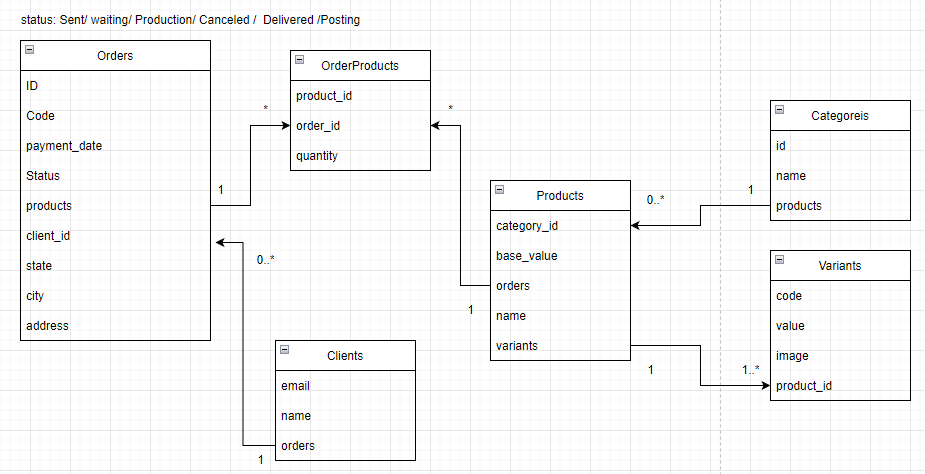
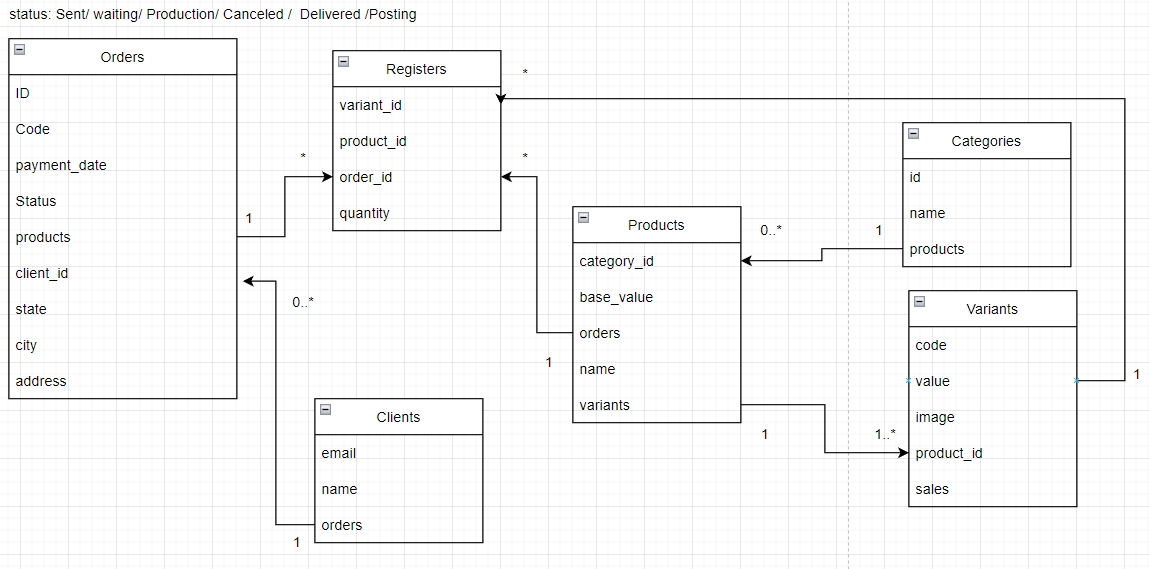
wip(register): Register products on orders - Need dockerize first 'cause my wsl crashed x.x

diff --git a/spec/controllers/v1/orders_controller_spec.rb b/spec/controllers/v1/orders_controller_spec.rb
@@ -72,16 +72,37 @@ describe V1::OrdersController, type: :controller do
 
   describe 'POST /v1/orders' do
     context 'When put invalid attributes' do
+      let(:product) { create(:product, :with_variants, variant_count: 2) }
+      let(:variant) { create(:variant, id: 3) }
+
       before do
         post :create, params: attributes_for(:order,
                                              code: '123456789098',
-                                             status: 'Raining Blood')
+                                             status: 'Raining Blood',
+                                             registers_attributes: [
+                                               {
+                                                 product_id: 1,
+                                                 variant_id: 3,
+                                                 quantity: 2
+                                               },
+                                               {
+                                                 product_id: 1,
+                                                 variant_id: 3,
+                                                 quantity: 2
+                                               }
+                                             ])
       end
 
       include_examples 'unprocess_entity response'
 
       it 'Then return error type validation' do
         expect(json_response[:errors][:status]).to eq(['Invalid status'])
+        expect(json_response[:errors][:registers]).to eq([
+                                                           'Variant 3 doesnt belongs that product 1',
+                                                           'Variant 100 doesnt belongs that product 600'
+                                                         ])
+        expect(json_response[:errors][:'registers.product']).to eq(['must exist'])
+        expect(json_response[:errors][:'registers.variant']).to eq(['must exist'])
       end
     end
 
@@ -104,14 +125,32 @@ describe V1::OrdersController, type: :controller do
         expect(json_response[:errors][:state]).to eq(["can't be blank"])
         expect(json_response[:errors][:address]).to eq(["can't be blank"])
         expect(json_response[:errors][:city]).to eq(["can't be blank"])
+        expect(json_response[:errors][:registers]).to eq(["can't be blank"])
         expect(json_response[:errors][:net_value]).to eq(['is not a number', "can't be blank"])
       end
     end
 
     context 'When put valid data' do
       let(:client) { create(:client) }
+      let(:product) { create(:product, :with_variants, variant_count: 2) }
+
       before do
-        post :create, params: attributes_for(:order, client_id: client.id)
+        post :create, params: attributes_for(
+          :order,
+          client_id: client.id,
+          registers_attributes: [
+            {
+              product_id: 1,
+              variant_id: 1,
+              quantity: 2
+            },
+            {
+              product_id: 1,
+              variant_id: 2,
+              quantity: 2
+            }
+          ]
+        )
       end
 
       include_examples 'ok response'

diff --git a/db/schema.rb b/db/schema.rb
@@ -10,7 +10,7 @@
 #
 # It's strongly recommended that you check this file into your version control system.
 
-ActiveRecord::Schema[7.0].define(version: 2022_06_13_151527) do
+ActiveRecord::Schema[7.0].define(version: 2022_06_14_181838) do
   # These are extensions that must be enabled in order to support this database
   enable_extension "plpgsql"
 
@@ -52,6 +52,18 @@ ActiveRecord::Schema[7.0].define(version: 2022_06_13_151527) do
     t.index ["category_id"], name: "index_products_on_category_id"
   end
 
+  create_table "registers", force: :cascade do |t|
+    t.bigint "order_id", null: false
+    t.bigint "product_id", null: false
+    t.bigint "variant_id", null: false
+    t.integer "quantity"
+    t.datetime "created_at", null: false
+    t.datetime "updated_at", null: false
+    t.index ["order_id"], name: "index_registers_on_order_id"
+    t.index ["product_id"], name: "index_registers_on_product_id"
+    t.index ["variant_id"], name: "index_registers_on_variant_id"
+  end
+
   create_table "variants", force: :cascade do |t|
     t.string "code", null: false
     t.decimal "value", precision: 8, scale: 2, null: false
@@ -59,10 +71,14 @@ ActiveRecord::Schema[7.0].define(version: 2022_06_13_151527) do
     t.bigint "product_id", null: false
     t.datetime "created_at", null: false
     t.datetime "updated_at", null: false
+    t.integer "sales", default: 0
     t.index ["product_id"], name: "index_variants_on_product_id"
   end
 
   add_foreign_key "orders", "clients"
   add_foreign_key "products", "categories"
+  add_foreign_key "registers", "orders"
+  add_foreign_key "registers", "products"
+  add_foreign_key "registers", "variants"
   add_foreign_key "variants", "products"
 end

diff --git a/app/models/order.rb b/app/models/order.rb
@@ -2,12 +2,39 @@ class Order < ApplicationRecord
   STATUS = %w[SENT WAITING PRODUCTION CANCELED POSTING].freeze
   belongs_to :client
 
+  has_many :registers
+  has_many :products, through: :registers
+  accepts_nested_attributes_for :registers
+
   validates :status,
             inclusion: { in: STATUS, message: 'Invalid status' },
             presence: true
   validates :address, :city, :state, presence: true
   validates :code, presence: true, uniqueness: true
   validates :net_value, numericality: true, presence: true
+  after_commit :update_sales_variant, on: :create
+  validate :products_valid?
 
-  # TODO custom validation code on: :update
+  private
+
+  def update_sales_variant
+    registers.each do |register|
+      sales = Register.where(variant_id: register.variant_id).sum(&:quantity)
+      register.variant.update({ sales: sales })
+    end
+  end
+
+  def products_valid?
+    # errors.add(:regsiter, "can't be blank") if registers.empty? # should, but idk make on factory assoc
+    return if registers.empty?
+
+    registers.each do |register|
+      next unless Variant.find_by_product_id_and_id(register.product_id, register.variant_id).nil?
+
+      errors.add(
+        :registers,
+        "Variant #{register.variant_id} doesnt belongs that product #{register.product_id}"
+      )
+    end
+  end
 end

diff --git a/app/controllers/v1/orders_controller.rb b/app/controllers/v1/orders_controller.rb
@@ -31,8 +31,13 @@ module V1
     private
 
     def permitted_params
-      # TODO products: []
-      params.permit(:status, :address, :city, :state, :payment_date, :code, :client_id, :net_value)
+      params.permit(
+        :status, :address,
+        :city, :state,
+        :payment_date, :code,
+        :client_id, :net_value,
+        registers_attributes: %i[quantity product_id variant_id]
+      )
     end
 
     def update_permitted_params

diff --git a/spec/factories/order_factory.rb b/spec/factories/order_factory.rb
@@ -10,5 +10,17 @@ FactoryBot.define do
     city { Faker::Address.city }
     net_value { Faker::Number.decimal(l_digits: 2, r_digits: 2) }
     client factory: :client
+
+    trait :with_registers do
+      transient do
+        register_count { 1 }
+      end
+
+      after(:create) do |product, evaluator|
+        register_count.times do
+          create(:register, order: order)
+        end
+      end
+    end
   end
 end

diff --git a/db/migrate/20220614162550_create_register.rb b/db/migrate/20220614162550_create_register.rb
@@ -1,0 +1,16 @@
+class CreateRegister < ActiveRecord::Migration[7.0]
+  def up
+    create_table :registers do |t|
+      t.references :order, foreign_key: true, null: false
+      t.references :product, foreign_key: true, null: false
+      t.references :variant, foreign_key: true, null: false
+      t.integer :quantity
+
+      t.timestamps
+    end
+  end
+
+  def down
+    drop_table :registers
+  end
+end

diff --git a/app/models/product.rb b/app/models/product.rb
@@ -3,6 +3,9 @@ class Product < ApplicationRecord
   has_many :variants, dependent: :destroy, inverse_of: :product
   accepts_nested_attributes_for :variants, allow_destroy: true, reject_if: :all_blank
 
+  has_many :registers
+  has_many :orders, through: :registers
+
   validates :base_value, numericality: true, presence: true
   validates :name, presence: true, uniqueness: true
 end

diff --git a/app/models/register.rb b/app/models/register.rb
@@ -1,0 +1,14 @@
+class Register < ApplicationRecord
+  belongs_to :product
+  belongs_to :order
+  belongs_to :variant
+  before_validation :default_to_one_quantity, on: :create
+
+  validates :quantity, presence: true, numericality: { other_than: 0 }
+
+  private
+
+  def default_to_one_quantity
+    self.quantity = 1 if quantity.blank?
+  end
+end

diff --git a/app/controllers/application_controller.rb b/app/controllers/application_controller.rb
@@ -17,7 +17,7 @@ class ApplicationController < ActionController::API
   end
 
   def render_argument_error(exception)
-    render json: { errors: { message: exception } }, status: :bad_request
+    render json: { errors: { message: exception } }, status: :unprocessable_entity
   end
 
   def render_active_record_not_found(exception)

diff --git a/spec/factories/register_factory.rb b/spec/factories/register_factory.rb
@@ -1,0 +1,10 @@
+# frozen_string_literal: true
+
+FactoryBot.define do
+  factory :register, class: Register do
+    product factory: :product
+    variant factory: :variant
+    order factory: :order
+    quantity { Faker::Number.within(range: 1..10) }
+  end
+end

diff --git a/spec/models/order_spec.rb b/spec/models/order_spec.rb
@@ -20,4 +20,6 @@ describe Order, type: :model do
   it { should_not allow_value('FF').for(:status) }
 
   it { should belong_to(:client) }
+  it { should have_many(:registers) }
+  it { should have_many(:products).through(:registers) }
 end

diff --git a/db/migrate/20220614181838_add_column_to_variants.rb b/db/migrate/20220614181838_add_column_to_variants.rb
@@ -1,0 +1,9 @@
+class AddColumnToVariants < ActiveRecord::Migration[7.0]
+  def up
+    add_column :variants, :sales, :integer, default: 0
+  end
+
+  def down
+    remove_column :variants, :sales
+  end
+end
